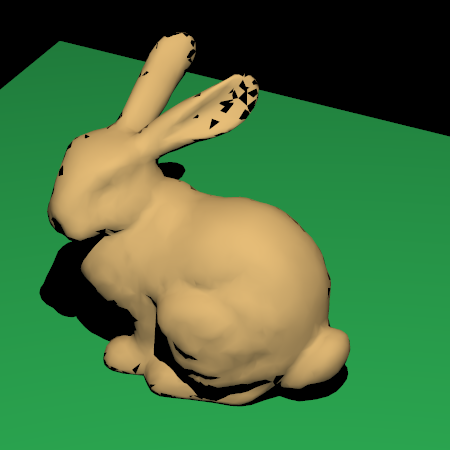
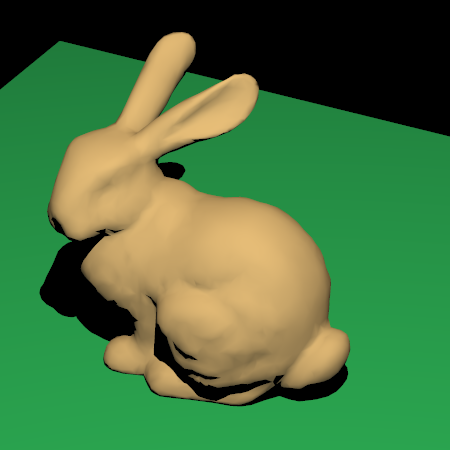
errything

diff --git a/CS4620/src/cs4620/ray2/accel/Bvh.java b/CS4620/src/cs4620/ray2/accel/Bvh.java
@@ -69,10 +69,16 @@ public class Bvh implements AccelStruct {
 				IntersectionRecord tempRecord = new IntersectionRecord();
 				boolean intersected = current.intersect(tempRecord, rayIn);
 				if (intersected && anyIntersection) {
-					
+					outRecord.set(tempRecord);
 					return true;
 				}
 				else if (intersected) {
+					if (!ret) {
+						outRecord.set(tempRecord);
+					}
+					else if (tempRecord.t < outRecord.t) {
+						outRecord.set(tempRecord);
+					}
 					ret = true;
 				}
 			}
